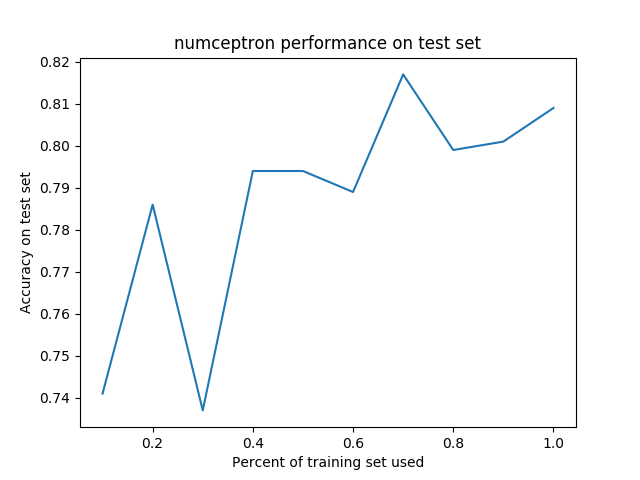
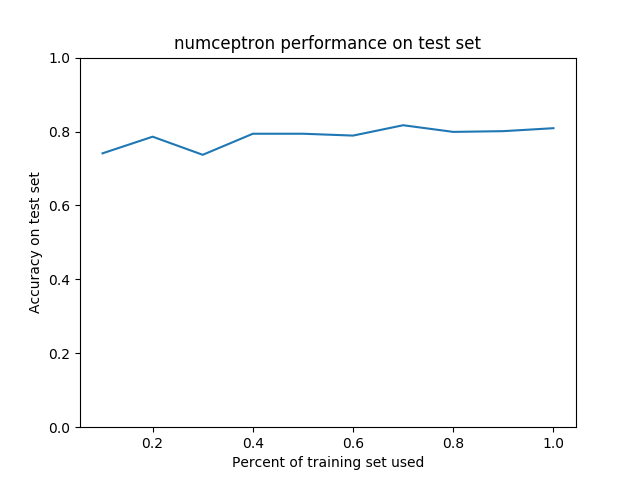
report and graphs

diff --git a/1-digit-classification/dataClassifier.py b/1-digit-classification/dataClassifier.py
@@ -308,6 +308,7 @@ def q4():
     plt.plot(percents, data[key])
     plt.ylabel('Accuracy on test set')
     plt.xlabel('Percent of training set used')
+    plt.ylim((0,1))
     plt.title('{} performance on test set'.format(key))
     plt.savefig('data/{}_test.png'.format(key))
   print(data)
@@ -317,5 +318,5 @@ if __name__ == '__main__':
   # args, options = readCommand( sys.argv[1:] )
   # # Run classifier
   # runClassifier(args, options)
-  # q3()
+  q3()
   q4()
